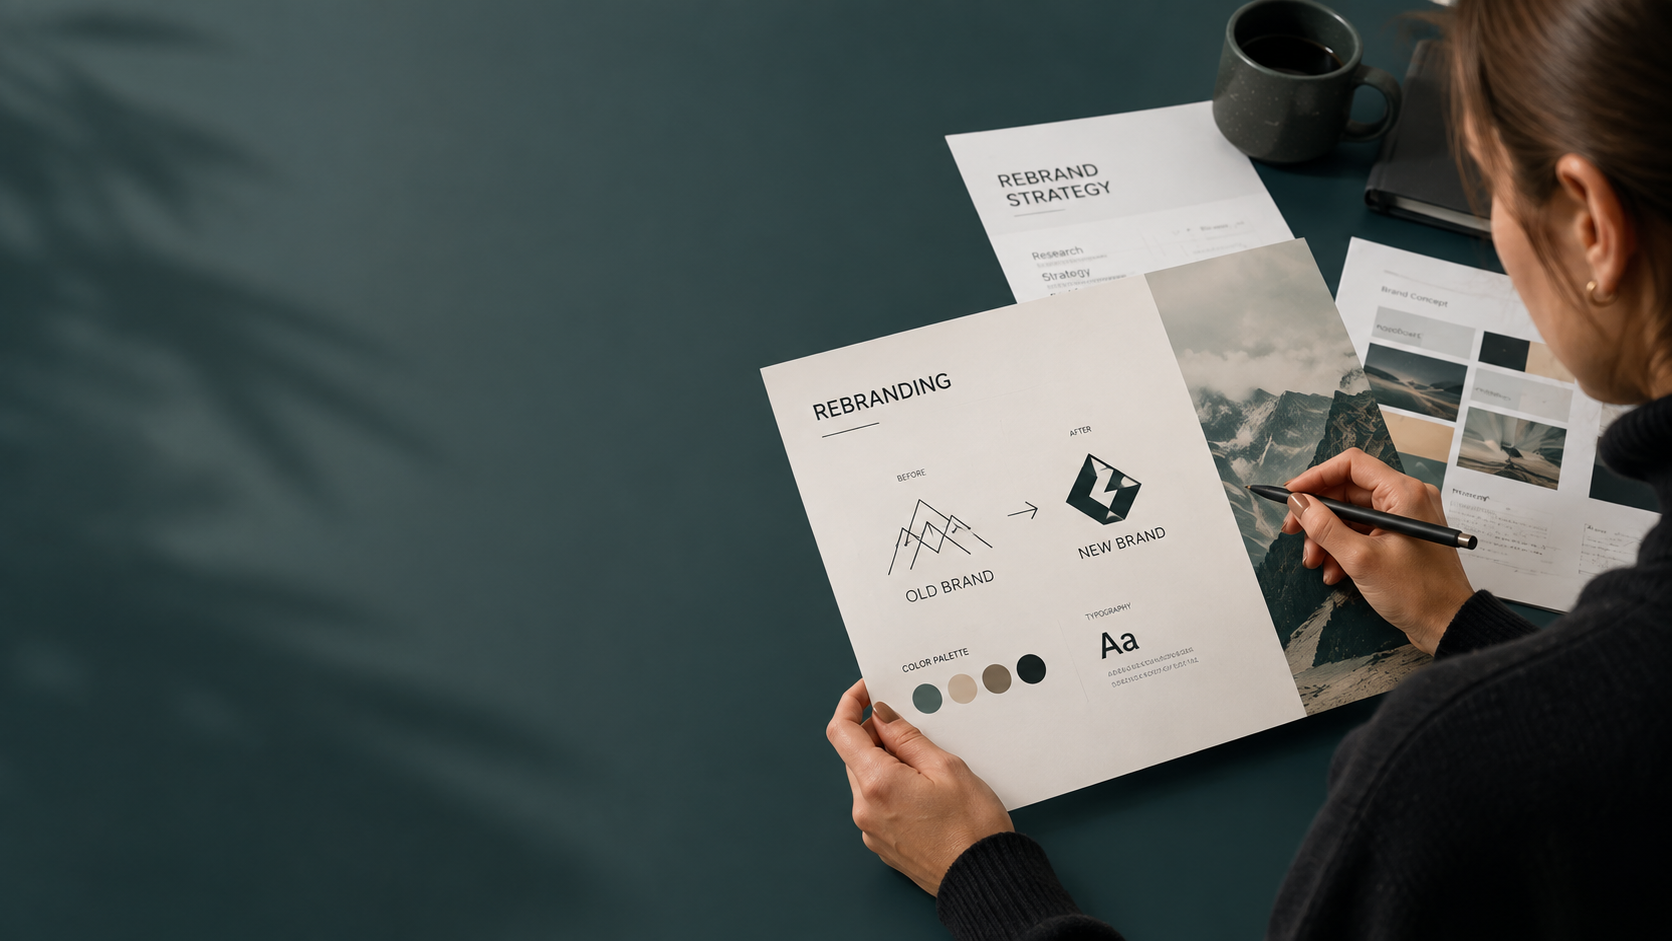
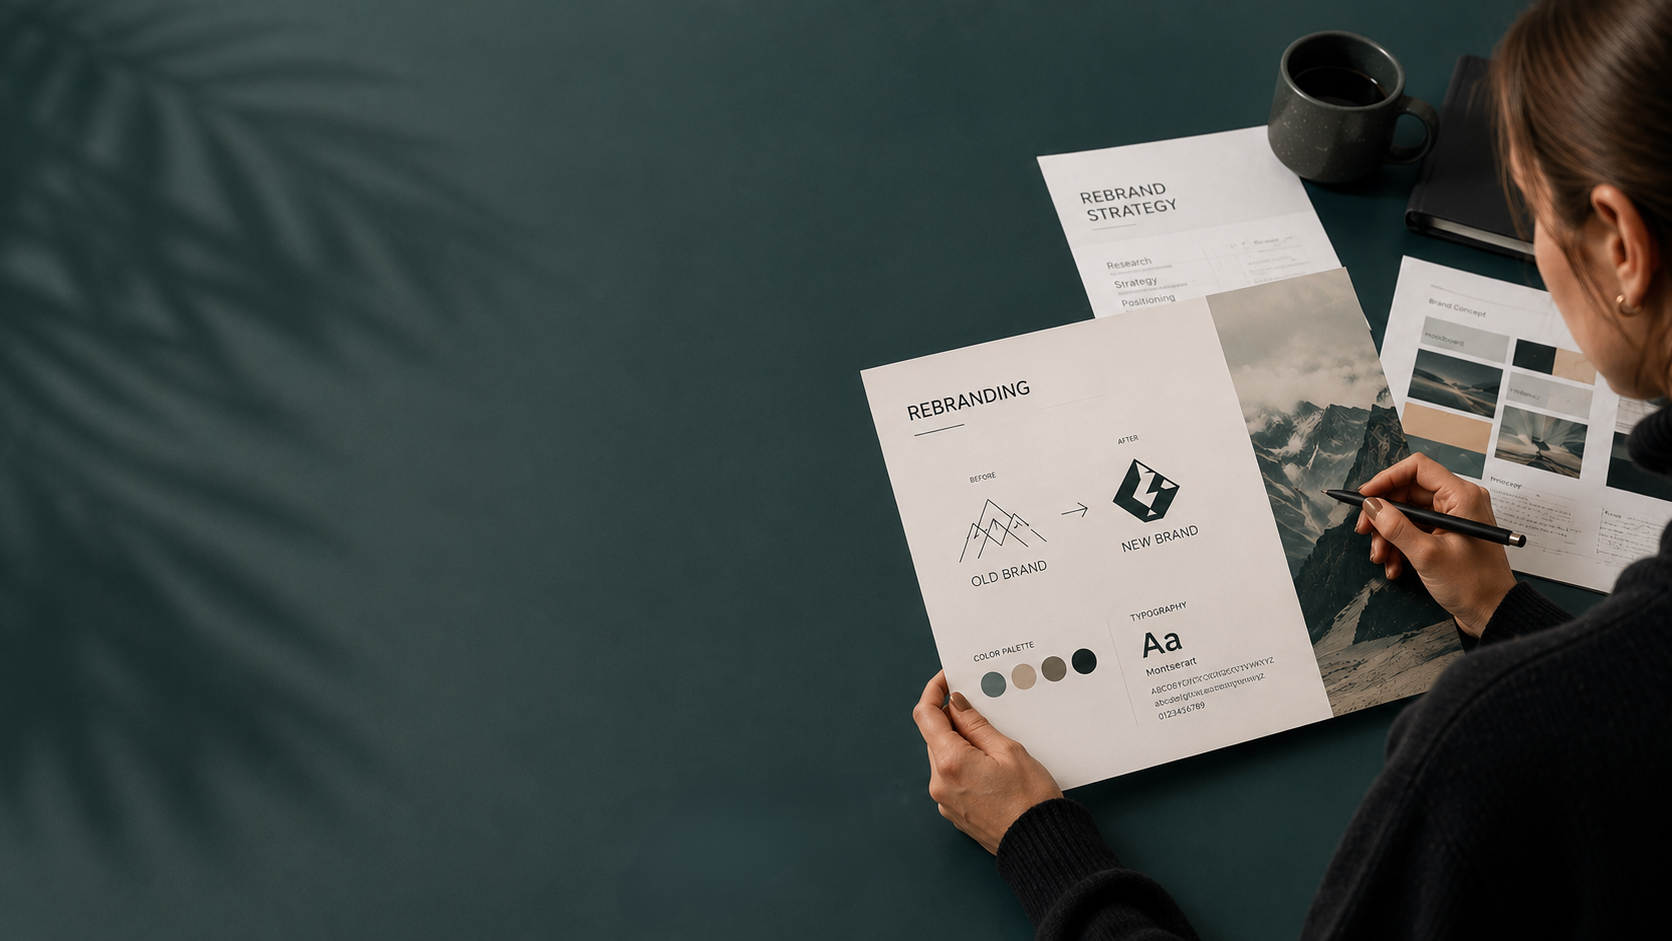
ajustement d'imags et quelques textes

diff --git a/src/pages/ServiceUIUX.tsx b/src/pages/ServiceUIUX.tsx
@@ -51,7 +51,7 @@ export default function ServiceUIUX() {
                 <p className="text-xs font-bold uppercase tracking-[0.18em] text-primary" style={{ transform: 'translateY(-1.8cm)' }}>
                   Agence UI/UX Design
                 </p>
-                <h1 className="mt-4 font-display text-[clamp(2rem,4.5vw,3rem)] leading-[1.1]" style={{ transform: 'translateY(-1.3cm)' }}>
+                <h1 className="mt-4 font-display text-[clamp(2rem,4.5vw,3rem)] leading-[1.1]" style={{ transform: 'translateY(-1.2cm)' }}>
                   Des interfaces simples, intuitives et
                   <br />
                   agréables à utiliser
@@ -69,8 +69,8 @@ export default function ServiceUIUX() {
               <div className="relative hidden lg:block h-full">
                 {/* Bloc 1 - haut */}
                 <div 
-                  className="absolute top-[2%] right-[5%] w-[60%] bg-black/25 backdrop-blur-md rounded-xl p-5 border border-white/10" 
-                  style={{ transform: 'translateY(-3.3cm) translateX(0.8cm)' }}
+                  className="absolute top-[2%] right-[5%] w-[60%] bg-black/30 backdrop-blur-md rounded-xl p-5 border border-white/10" 
+                  style={{ transform: 'translateY(-3.2cm) translateX(0.8cm)' }}
                 >
                   <p className="text-[12px] leading-relaxed text-white/95">
                     Nous concevons des interfaces simples, intuitives et agréables à utiliser.
@@ -79,7 +79,7 @@ export default function ServiceUIUX() {
                 
                 {/* Bloc 2 - milieu */}
                 <div 
-                  className="absolute top-[42%] right-[5%] w-[60%] bg-black/25 backdrop-blur-md rounded-xl p-5 border border-white/10" 
+                  className="absolute top-[42%] right-[5%] w-[60%] bg-black/30 backdrop-blur-md rounded-xl p-5 border border-white/10" 
                   style={{ transform: 'translateY(+3.4cm) translateX(0.8cm)' }}
                 >
                   <p className="text-[12px] leading-relaxed text-white/95">

diff --git a/src/pages/CreationSiteWeb.tsx b/src/pages/CreationSiteWeb.tsx
@@ -53,16 +53,18 @@ export default function CreationSiteWeb() {
 
               <div className="flex flex-col gap-4">
                 {/* Paragraphe du haut remonté de 3cm au total */}
-                <p className="text-[11px] sm:text-xs leading-relaxed text-white/85" style={{ transform: 'translateY(-2.6cm)' }}>
+                <p className="text-[11px] sm:text-xs leading-relaxed text-white/85" style={{ transform: 'translateY(-2.8cm)' }}>
                   Votre site web est souvent le premier endroit où un client potentiel se fait une opinion sur
                   vous, sans que vous soyez là pour vous présenter. En quelques secondes, il doit comprendre ce
                   que vous faites, pourquoi vous êtes la bonne option, et avoir envie d'aller plus loin.
                 </p>
                 {/* Paragraphe du bas descendu de 2.5cm */}
-                <p className="text-[11px] sm:text-xs leading-relaxed text-white/85" style={{ transform: 'translateY(1.5cm)' }}>
-                  Chez Only Clik, on ne crée pas des sites pour faire joli. On crée des sites qui travaillent pour
+                <p className="text-[11px] sm:text-xs leading-relaxed text-white/85" style={{ transform: 'translateY(1.8cm)' }}>
+                  <strong>
+                    Chez Only Clik, on ne crée pas des sites pour faire joli. On crée des sites qui travaillent pour
                   vous : visibles sur Google, clairs pour vos visiteurs, et conçus pour transformer un inconnu en
                   client.
+                  </strong>
                 </p>
               </div>
             </div>
